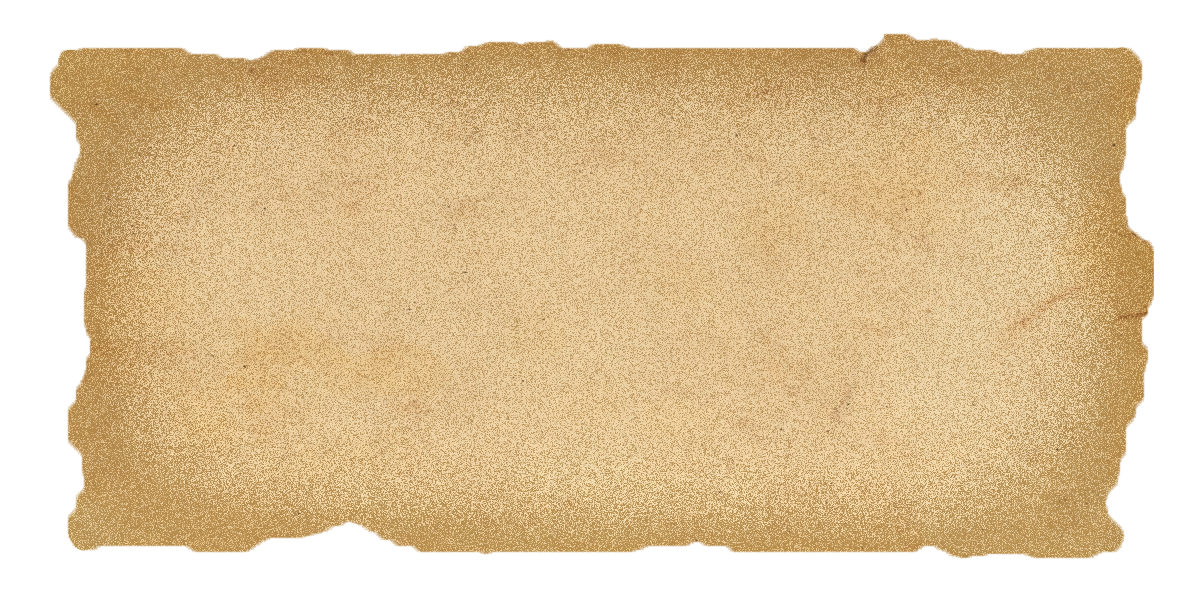
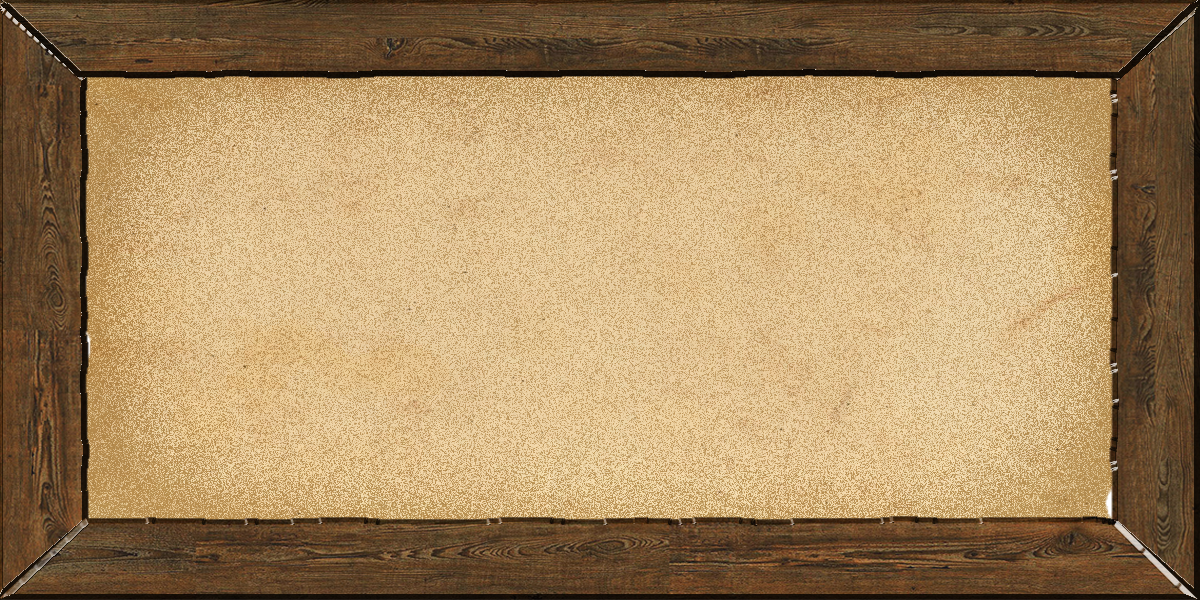
Zmiana grafiki tła opcji

diff --git a/RPG/GlownyEkran.Designer.cs b/RPG/GlownyEkran.Designer.cs
@@ -75,6 +75,7 @@
             // 
             // Zegar
             // 
+            this.Zegar.Interval = 1;
             this.Zegar.Tick += new System.EventHandler(this.Zegar_Tick);
             // 
             // PanelOpcje
